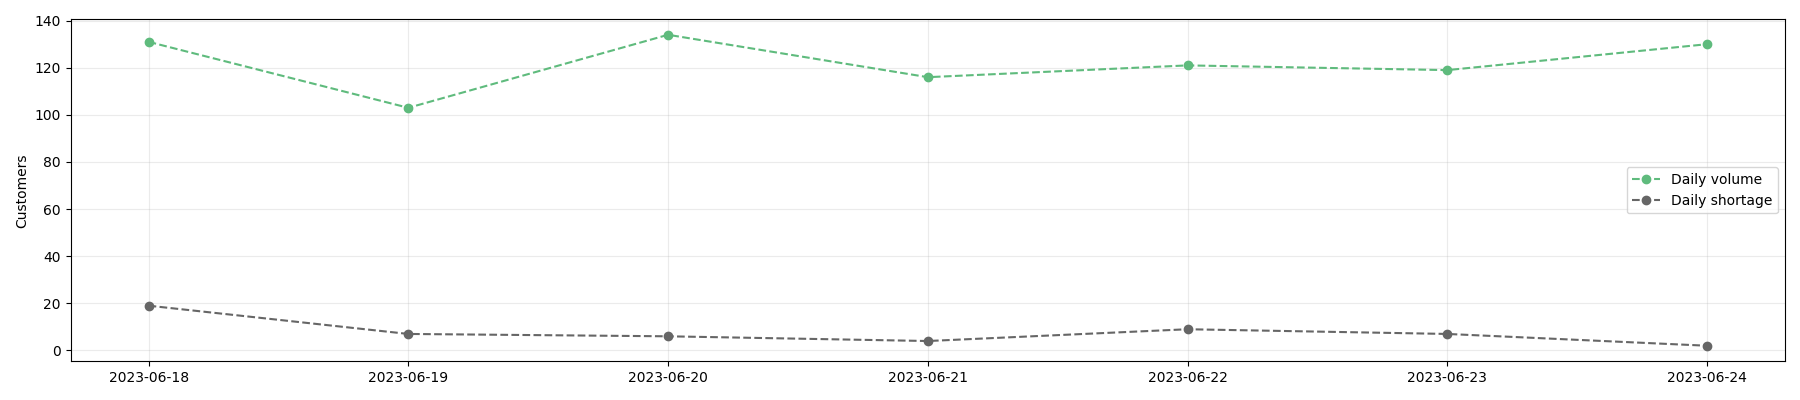
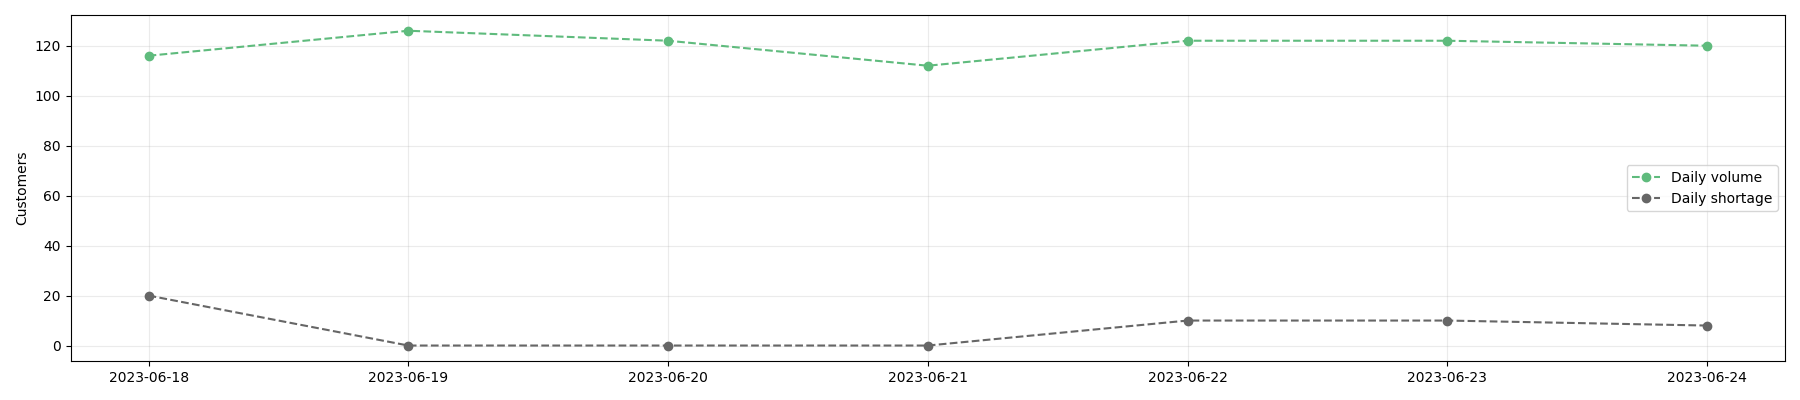
Reverted changes in part 1 staff scheduling

diff --git a/staff_scheduling/part_1.py b/staff_scheduling/part_1.py
@@ -93,8 +93,9 @@ for p in P:
     )
 
 # CSR availability constraints
-for i, p in zip(I, P):
-    model += x[i][p] <= csr_availability[i][p]
+for i in I:
+    for p in P:
+        model += x[i][p] <= csr_availability[i][p]
 
 # 5-day workweek constraints
 for i in I:
@@ -166,23 +167,24 @@ fig, ax = plt.subplots(figsize=(12, 6), dpi=200)
 ax.imshow(csr_schedule, cmap=color_map, norm=norm, aspect="auto")
 
 # Add text in the tiles
-for i, p in zip(I, P):
-    # If CSR i is selected to work during day p, print the schedule
-    if csr_schedule[i][p] == 1:
-        text = ax.text(
-            p,
-            i,
-            _SHIFT_LABELS[csr_schedule[i][p]],
-            size=8,
-            ha="center",
-            va="center",
-            color="white",
-        )
-    # If CSR i is not selected to work during day p because we was not available, print "Unavailable"
-    elif csr_schedule[i][p] == 0 and csr_availability[i][p] == 0:
-        text = ax.text(
-            p, i, "Unavailable", size=8, ha="center", va="center", color="black"
-        )
+for i in I:
+    for p in P:
+        # If CSR i is selected to work during day p, print the schedule
+        if csr_schedule[i][p] == 1:
+            text = ax.text(
+                p,
+                i,
+                _SHIFT_LABELS[csr_schedule[i][p]],
+                size=8,
+                ha="center",
+                va="center",
+                color="white",
+            )
+        # If CSR i is not selected to work during day p because we was not available, print "Unavailable"
+        elif csr_schedule[i][p] == 0 and csr_availability[i][p] == 0:
+            text = ax.text(
+                p, i, "Unavailable", size=8, ha="center", va="center", color="black"
+            )
 
 # Remove major ticks
 plt.tick_params(axis="x", which="both", bottom=False)
